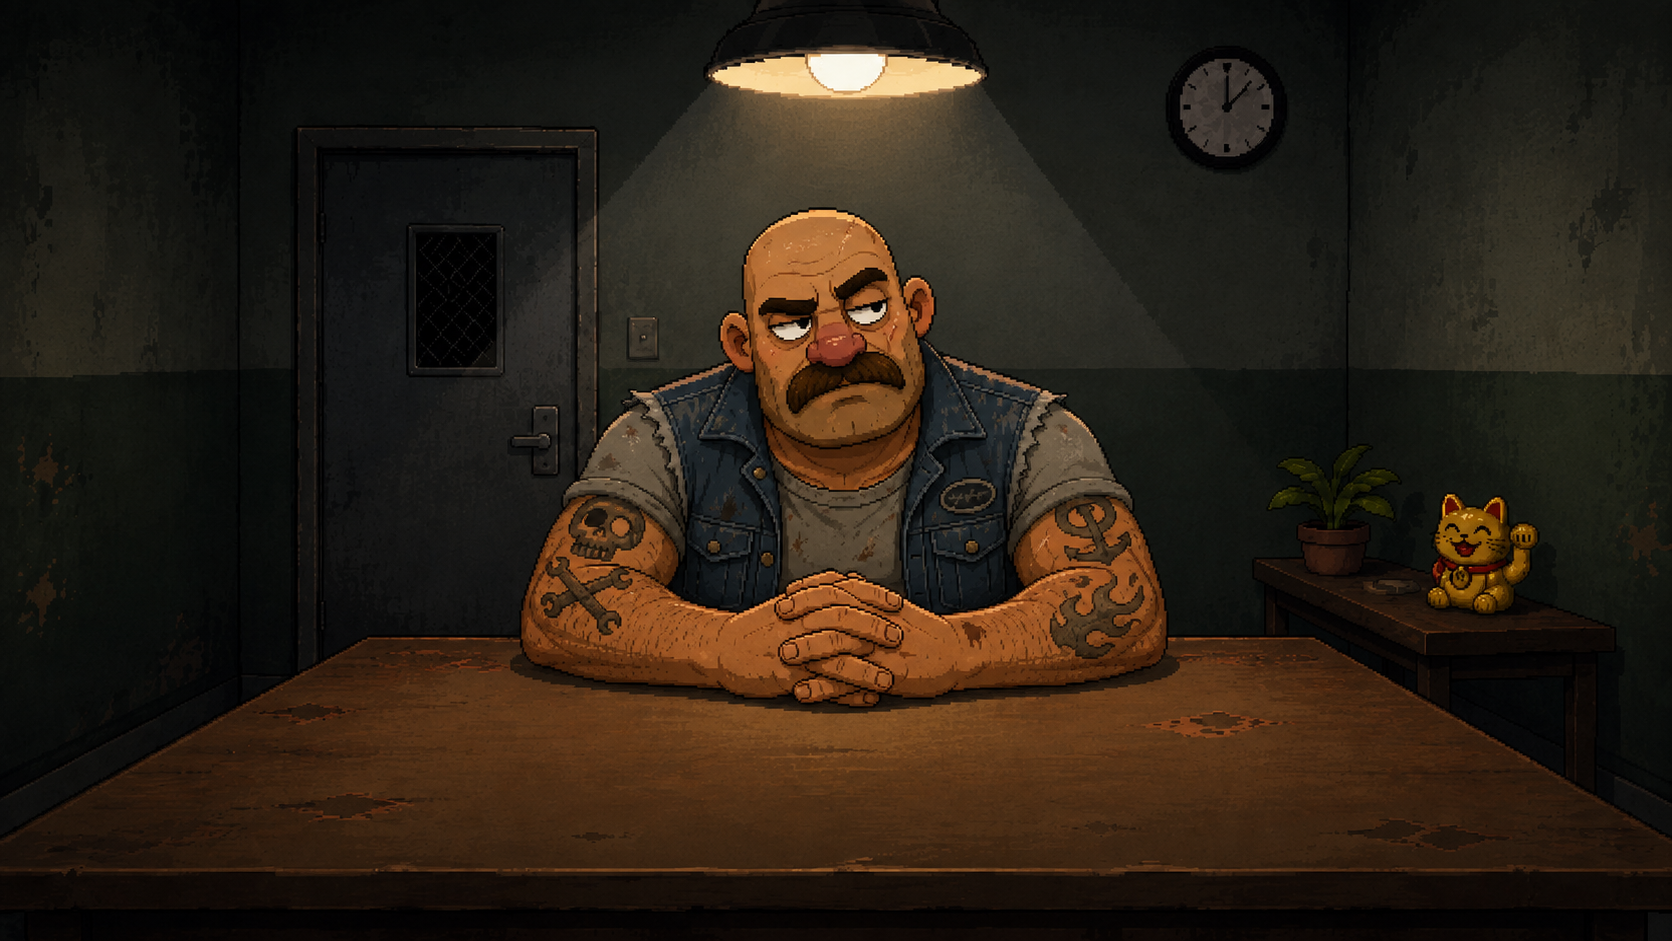
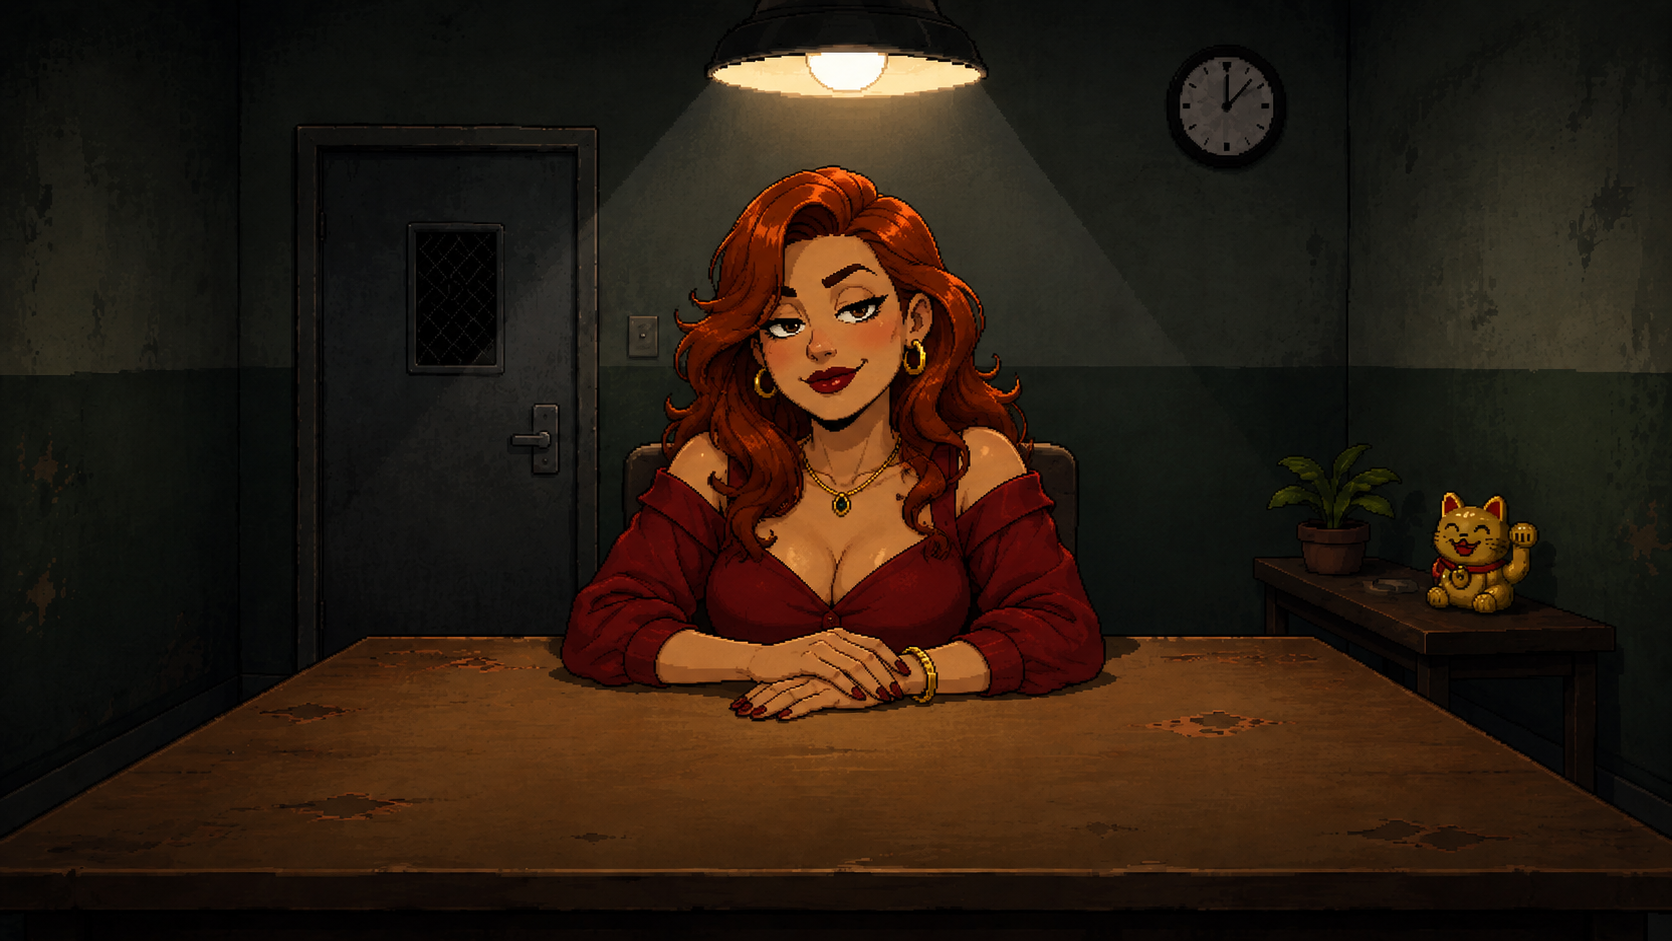
Refactor code structure for improved readability and maintainability

diff --git a/src/game/suspects/baby.ts b/src/game/suspects/baby.ts
@@ -2,8 +2,8 @@ import type { SuspectProfile } from "@/game/types/suspect";
 
 export const baby: SuspectProfile = {
   id: "baby",
-  displayName: 'Baby',
-  shortName: "Baby",
+  displayName: 'Victoria "Black Cat" Velasco',
+  shortName: "Victoria Velasco",
   nickname: "Baby",
   age: 42,
   occupation: '"Entrepreneur"',